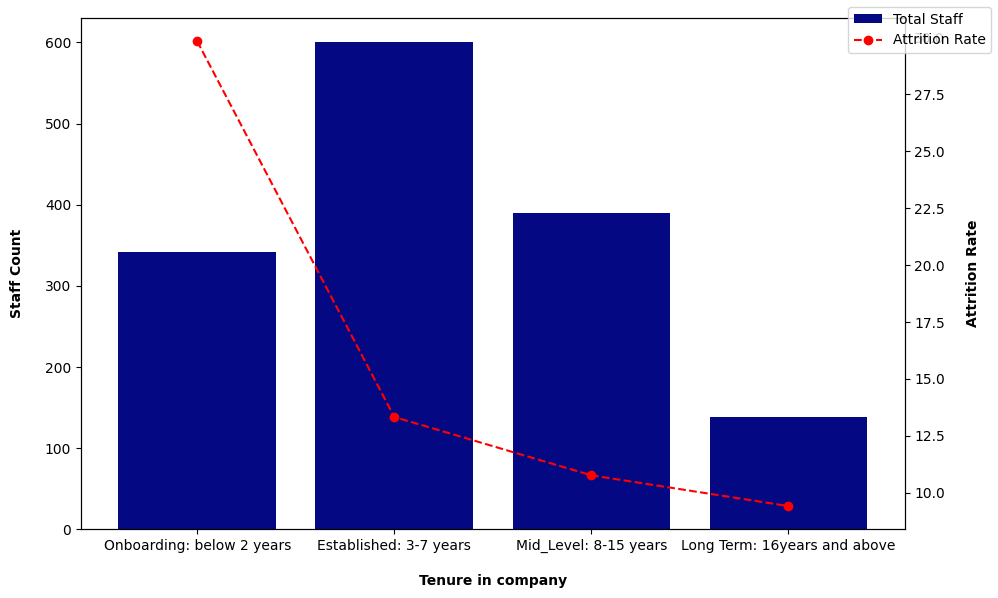
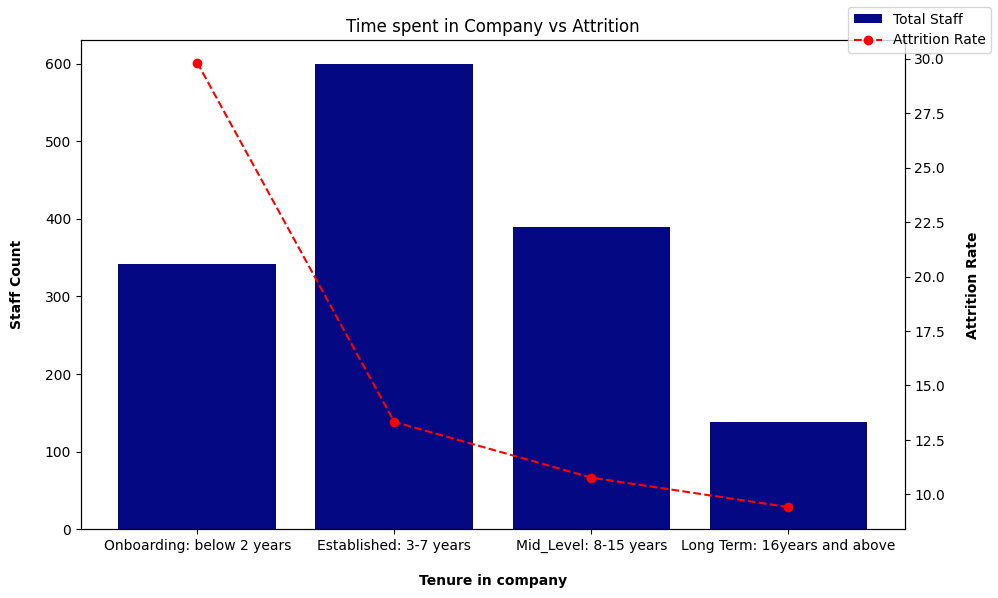
fixing report

diff --git a/HR_ATTRITION_REPORT.md b/HR_ATTRITION_REPORT.md
@@ -55,16 +55,16 @@ Employee attrition affects organisations negatively in the following ways
 
 ### 1. Overall Attrition rate
 
-![attrtion_rate](TABLES/Total_attrition_rate.png)
+![alt text](<python visuals/attrition_rate_plot.png>)  
 -Attrition rate: 16.12%
 
 **Insight:**
-The organisation experiences a moderates level of employee turnover requiring the organisation to look inward and create employee retention strategies.
+The organisation experiences a moderates level of employee turnover requiring the organization to look inward and create employee retention strategies.
 
 ### 2.Department Analysis
 
-![Departments](TABLES/department.png)
-![alt text](TABLES/job_satisfaction_by-department.png)
+![  Departments](<python visuals/debt_staff.png>)
+![alt text](<python visuals/attrtion_rate_dept.png>)  
 Research and Development recorded the highest number of staff in the organisation with 961 staff out of the total 1,470 staff, however, the sales team with 446 ( the Second most populated department) led the attrition with 20.63% and human resource with 63 staff had an attrition rate of 19%. Research and development had the lowest attrition rate at 13.84%.
 A deep dive into the job satisfaction levels of those who left shows a very high percentage of HR staff scoring 1 on the job satisfaction score while R&D and sales showed no relationship between job satisfactoin and attrition.
 
@@ -73,7 +73,8 @@ The sales department had the highest attrition rate, however scored higher on th
 
 ### 3. Gender analysis
 
-![GEnder](TABLES/gender_analysis.png)
+![alt text](<python visuals/gender_distr.png>)
+![alt text](<python visuals/attr_rate_age.png>)
 40% of the total staff are female while 60% are men. Atttrition rate for men stood at 17% while women was 14.8%.
 
 **Insight**
@@ -213,6 +214,5 @@ Staff who had a high and medium salary scored better in job satisfaction. while 
 ## Author
 
 **Nnaemeka Ijeoma**
-
 
 https://github.com/iamdrmeka/HR_Attrition_Analysis
